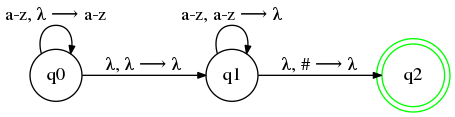
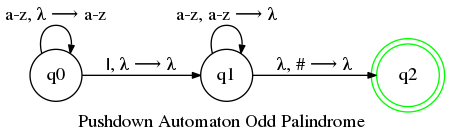
fix lag animation and add scroll to stack

Changed region(s): [[0.0, 0.0513, 0.9956, 0.9744], [0.5911, 0.4103, 0.6222, 0.4359]]

diff --git a/modules/app.py b/modules/app.py
@@ -7,32 +7,80 @@ from .stack import Stack
 from .tree import ExpressionTree
 from .graph import Graph
 
-class ScrollableImage(Canvas):
+class PDAImage(Canvas):
 
     def __init__(self, master=None, **kw):
         self.image = kw.pop('image', None)
-        super(ScrollableImage, self).__init__(master=master, **kw)
+        super(PDAImage, self).__init__(master=master, **kw)
         self['highlightthickness'] = 0
         self.propagate(0)  # wont let the scrollbars rule the size of Canvas
-        self.create_image(0,0, anchor=CENTER, image=self.image, tags='dfa')
+        self.imagePDA = self.create_image(0,0, anchor=CENTER, image=self.image, tags='pda')
 
         # Assign the region to be scrolled 
         self.config(scrollregion=self.bbox('all'))
 
         self.focus_set()
 
+    def updateImage(self):
+        self.image = PhotoImage(file="pda/pda.png")
+        self.itemconfigure(self.imagePDA, image = self.image)
+
+class ScrolledFrame(Frame):
+
+    def __init__(self, parent, vertical=True, horizontal=False):
+        super().__init__(parent)
+
+        # canvas for inner frame
+        self._canvas = Canvas(self)
+        self._canvas.grid(row=0, column=0, sticky='news') # changed
+
+        # create right scrollbar and connect to canvas Y
+        self._vertical_bar = Scrollbar(self, orient='vertical', command=self._canvas.yview)
+        if vertical:
+            self._vertical_bar.grid(row=0, column=1, sticky='ns')
+        self._canvas.configure(yscrollcommand=self._vertical_bar.set)
+
+        # create bottom scrollbar and connect to canvas X
+        self._horizontal_bar = Scrollbar(self, orient='horizontal', command=self._canvas.xview)
+        if horizontal:
+            self._horizontal_bar.grid(row=1, column=0, sticky='we')
+        self._canvas.configure(xscrollcommand=self._horizontal_bar.set)
+
+        # inner frame for widgets
+        self.inner = Frame(self._canvas)
+        self._window = self._canvas.create_window((160, 0), window=self.inner, anchor='nw')
+
+        # autoresize inner frame
+        self.columnconfigure(0, weight=1) # changed
+        self.rowconfigure(0, weight=1) # changed
+
+        # resize when configure changed
+        self.inner.bind('<Configure>', self.resize)
+        self._canvas.bind('<Configure>', self.frame_width)
+
+    def frame_width(self, event):
+        # resize inner frame to canvas size
+        # canvas_width = event.width
+        self._canvas.itemconfig(self._window, width = 200)
+
+    def resize(self, event=None): 
+        self._canvas.configure(scrollregion=self._canvas.bbox('all'))
+
 class App:
 
     def __init__(self):
 
         self.gui = Tk()
-        self.gui.geometry("510x500")
+        self.gui.title("Pushdown Automaton")
+        self.gui.geometry("510x620")
+        self.gui.resizable(False,False)
         self.icon = Image("photo", file="python-logo.png")
         self.gui.tk.call('wm','iconphoto',self.gui._w, self.icon)
         self.txtStack = []
         self.G = None
         self.stack = None
-        self.automata = []
+        self.evenPDA = None
+        self.oddPDA = None
         self.transitions = []
         self.states = []
         self.language = Language("{λ, a, b, c, d, e, f, g, h, i, j, k, l, m, n, ñ, o, p, q, r, s, t, u, v, w, x, y, z}")
@@ -57,23 +105,40 @@ class App:
         self.btnVerifyLow.grid(row=1, column=3)
         self.btnSpeech=Button(self.panel, text="voice", font=('Verdana',10), command=lambda:self.runSpeech())
         self.btnSpeech.grid(row=1, column=4)
-        self.lblResult = Label(self.panel, text="", font=('Verdana',11))
-    
-        self.sImage = ScrollableImage(self.panel)
-        self.showPDA()
+        
+        img = PhotoImage(file="pda/background.png")
+        self.sImage = PDAImage(self.panel, image = img, width=465, height=137, bg="#ffffff")
+        self.sImage.grid(row=2, column=0,columnspan=5, padx= 20)
+        self.createPDA()
+        self.showPDA("odd")
 
         self.lblStack = Label(self.panel, text="Stack", font=('Verdana',20))
         self.lblStack.grid(row = 3,column=0, columnspan=5, pady=10)
+
+        self.panelStack = ScrolledFrame(self.panel)
+        self.panelStack.grid(row = 4,column=0, columnspan=5, pady=10)
+
+        # self.scrollbar = Scrollbar(self.gui,orient=VERTICAL,command=self.panelStack.yview)
+
+        for i in range(10):
+            element = Entry(self.panelStack.inner, width=7, state='disabled',font=('Verdana',12))
+            element.grid(row = i, column=0, columnspan=5)
+            element.config(disabledbackground="white", disabledforeground="#000000", justify="center",highlightbackground="#000000",highlightthickness=1, bd=1)
+            self.txtStack.append(element)
+
+        self.lblResult = Label(self.panel, text="", font=('Verdana',11))
 
         # self.lbxStack = Listbox(self.panel, width=7)
         # self.lbxStack.grid(row = 2, column =6, padx=20)
 
         mainloop()
 
-    def showPDA(self):
-        self.createPDA()
-        self.createGraph()
-        self.drawPDA()
+    def showPDA(self,type):
+        if type == "odd":
+            self.createGraph(self.oddPDA,"Pushdown Automaton Odd Palindrome")
+        elif type == "even":
+            self.createGraph(self.evenPDA,"Pushdown Automaton Even Palindrome")
+        self.sImage.updateImage()
 
 
     def createPDA(self):
@@ -82,6 +147,7 @@ class App:
         state1 = State(0,"q",False)
         state2 = State(1,"q",False)
         state3 = State(2,"q",True)
+        state4 = State(0,"q",False)
 
         # Add the transitions
         state1.addTransition("a",0)
@@ -141,37 +207,35 @@ class App:
         state2.addTransition("z",1)
         state2.addTransition("λ, # ⟶ λ",2)
 
-        self.automata = PDA([state1,state2,state3])
+        self.evenPDA = PDA([copy.copy(state1),state2,state3])
+        state4.transitions = state1.transitions.copy()
+        state4.deleteTransition("λ, λ ⟶ λ")
+        state4.addTransition("|, λ ⟶ λ",1)
+        self.oddPDA = PDA([state4,state2,state3])
 
-    def createGraph(self):
+    def createGraph(self,pda,title):
         dGraphTr = []
         accepted = []
-        for s in self.automata.states:
+        for s in pda.states:
             if s.accepted:
                 accepted.append("q"+str(s.id))
             for key,value in s.transitions.items():
                 if s.id != value:
                     dGraphTr.append({'from':str("q"+str(s.id)) ,'to':str("q"+str(value)),'with':key})
         
-        overlapping = self.automata.verifyOverlapping()
+        overlapping = pda.verifyOverlapping()
 
         if overlapping:
             for n in overlapping:
                 dGraphTr.append({'from':str("q"+str(n['id'])),'to':str("q"+str(n['id'])),'with':n['label']})
                 
         self.G = Graph(dGraphTr,accepted)
-        self.G.initGraph()
-
-
-    def drawPDA(self):
-        self.sImage.destroy()
-        img = PhotoImage(file="pda/pda.png")
-        self.sImage = ScrollableImage(self.panel, image = img, width=img.width()+10, height=img.height(), bg="#ffffff")
-        self.sImage.grid(row=2, column=0,columnspan=5, padx= 20)
+        self.G.initGraph(title)
+        
 
     def changeTransitions(self,i,a):
         self.G.changeState(i,a)
-        self.drawPDA()
+        self.sImage.updateImage()
 
     def animate(self,length, transitions, delay):
 
@@ -179,10 +243,10 @@ class App:
             txt.destroy()
 
         stringStack = []
-        for i in range(4,length+5):
+        for i in range(length+1):
             varElem = StringVar()
             stringStack.append(varElem)
-            element = Entry(self.panel, width=7, textvariable=varElem, state='disabled',font=('Verdana',12))
+            element = Entry(self.panelStack.inner, width=7, textvariable=varElem, state='disabled',font=('Verdana',12))
             element.grid(row = i, column=0, columnspan=5)
             element.config(disabledbackground="white", disabledforeground="#000000", justify="center",highlightbackground="#000000",highlightthickness=1, bd=1)
             self.txtStack.append(element)
@@ -232,9 +296,7 @@ class App:
     
         # open a new stream for microphone
         # It creates a PortAudio Stream Wrapper class object
-        stream = audio.open(format=FORMAT,channels=CHANNELS,
-                            rate=RATE, input=True,
-                            frames_per_buffer=CHUNK)
+        stream = audio.open(format=FORMAT,channels=CHANNELS,rate=RATE, input=True,frames_per_buffer=CHUNK)
     
         #----------------- start of recording -------------------#
         print("Listening...")
@@ -316,27 +378,30 @@ class App:
         transitions=[]
         length = len(self.word.get())
         middle = int((length+1)/2)-1
-        self.G.initGraph()
-        self.automata.nexState(0)
+        self.oddPDA.nexState(0)
+        self.evenPDA.nexState(0)
         self.stack = Stack()
         self.stack.push("#")
         if self.language.verifyComposition(self.word.get()):
             if length%2==0:
+                self.showPDA("even")
                 word = ""
                 for l in self.word.get():
                     word += l+"λ" 
-                print(word)
-                valid, transitions = self.validateEvenPDA(word,0,['#'],[])
+                transitions = self.validateEvenPDA(word,0,['#'],[])[1]
             else:
-                transitions = self.validateOddPDA(transitions, middle)
+                self.showPDA("odd")
+                word = list(self.word.get())
+                word[middle]="|"
+                transitions = self.validateOddPDA(word,transitions, middle)
 
-            if self.automata.verifyAcceptation():
+            if self.oddPDA.verifyAcceptation() or self.evenPDA.verifyAcceptation():
                 self.lblResult.config(text = "Is valid?: YES", fg="green")
                 self.sayResutl("the word is valid!")
             else:    
                 self.lblResult.config(text = "Is valid?: NO", fg="red")
                 self.sayResutl("the word is not valid!")
-            self.lblResult.grid(row=length+5, column=0, pady=10, columnspan=5)
+            self.lblResult.grid(row=5, column=0, pady=5, columnspan=5)
 
             if velocity:
                 self.animate(length, transitions, 500)
@@ -348,19 +413,19 @@ class App:
         validWay = False
         if l<len(word):
 
-            if self.automata.currentState == 0:
+            if self.evenPDA.currentState == 0:
                 if word[l] in "abcdefghijklmnñopqrstuvwxyz":
                     stack.append(word[l])
                     transitions.append({'id':0,'letter':word[l],'push':True})
                 elif word[l] == "λ":
-                    self.automata.nexState(1)
+                    self.evenPDA.nexState(1)
                     validWay, transitionsAux = self.validateEvenPDA(word,l+1,stack.copy(),transitions.copy())
                     if not validWay:
-                        self.automata.nexState(0)
+                        self.evenPDA.nexState(0)
                     else:
                         transitions = transitionsAux 
                         return validWay, transitions 
-            elif self.automata.currentState == 1:
+            elif self.evenPDA.currentState == 1:
                 if  word[l] != "λ" and word[l] == stack[-1]:
                     stack.pop()
                     transitions.append({'id':1,'letter':word[l],'push':False})
@@ -368,7 +433,7 @@ class App:
                     if stack[-1] == "#" and l == len(word)-1:
                         stack.pop()
                         transitions.append({'id':2,'letter':"#",'push':False})
-                        self.automata.nexState(2)
+                        self.evenPDA.nexState(2)
                         return True, transitions
                 else:
                     return False, []
@@ -376,22 +441,22 @@ class App:
 
         return validWay, transitions
 
-    def validateOddPDA(self,transitions, middle):
-        for i,l in enumerate(self.word.get()):
-            if self.automata.currentState == 0:
+    def validateOddPDA(self,word, transitions, middle):
+
+        for l in word:
+            if self.oddPDA.currentState == 0:
                 if l in "abcdefghijklmnñopqrstuvwxyz":
-                    if i == middle:
-                        self.automata.nexState(1)
-                    else:
-                        self.stack.push(l)
-                        transitions.append({'id':0,'letter':l,'push':True})
-            elif self.automata.currentState == 1:
+                    self.stack.push(l)
+                    transitions.append({'id':0,'letter':l,'push':True})
+                elif l == "|":
+                    self.oddPDA.nexState(1)
+            elif self.oddPDA.currentState == 1:
                 transitions.append({'id':1,'letter':l,'push':False})
                 if l == self.stack.getTop():
                     self.stack.pop()
                     if self.stack.getTop() == "#":
                         transitions.append({'id':2,'letter':l,'push':False})
-                        self.automata.nexState(2)
+                        self.oddPDA.nexState(2)
                         self.stack.pop()
                 else:
                     break

diff --git a/modules/graph.py b/modules/graph.py
@@ -9,12 +9,12 @@ class Graph:
         self.transitions = transitions
         self.accepted = accepted
 
-    def initGraph(self):
+    def initGraph(self,label):
 
         self.G=nx.MultiDiGraph()
 
         self.G.graph['edge'] = {'arrowsize': '0.6', 'overlap':False,'color':'black'}
-        self.G.graph['graph'] = {'scale': '3', 'rankdir':'LR'}
+        self.G.graph['graph'] = {'scale': '3', 'rankdir':'LR', 'label':label}
         self.G.graph['node']= {'shape':'circle', 'color':'black'}
         
         for edge in self.transitions:

diff --git a/modules/state.py b/modules/state.py
@@ -12,4 +12,6 @@ class State:
     def addTransition(self,way,id):
         self.transitions[way] = id
 
+    def deleteTransition(self,way):
+        del self.transitions[way]
     
